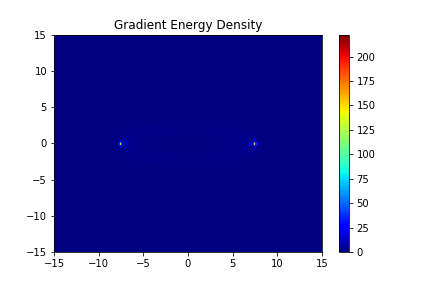
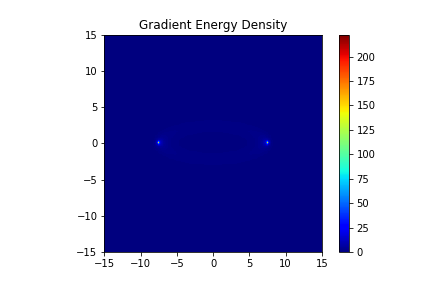
use imshow to plot gradient and total energy density

diff --git a/confinepy package/confinepy/source.py b/confinepy package/confinepy/source.py
@@ -1969,7 +1969,7 @@ class Solution_Viewer():
         return gradient_energy
     
     def plot_gradient_energy_density(self):
-        self._quick_plot(self.get_gradient_energy_density(),
+        self._quick_plot_imshow(self.get_gradient_energy_density(),
                          "Gradient Energy Density",
                          "Gradient_Energy_Density",
                          cmap='jet')
@@ -2007,7 +2007,7 @@ class Solution_Viewer():
     
     
     def plot_energy_density(self):
-        self._quick_plot(self.get_energy_density(),
+        self._quick_plot_imshow(self.get_energy_density(),
                          "Energy Density (E={})".format(
                              str(round(self.get_energy(),3))),
                          "Energy_Density",
@@ -2072,14 +2072,14 @@ class Solution_Viewer():
             ax1.plot(y_linspace,phi_cross[i],
                      label=r"$\phi_{}$".format(str(i+1)))
         ax1.legend(fontsize=15)
-        ax1.set_title("$\phi$ Cross Section at z=0",size=20)
+        ax1.set_title("$\phi$ Cross Section",size=20)
 
         ax2 = fig.add_subplot(222)
         for i in range(self.m):
             ax2.plot(y_linspace,sigma_cross[i],
                      label=r"$\sigma_{}$".format(str(i+1)))
         ax2.legend(fontsize=15)
-        ax2.set_title("$\sigma$ Cross Section at z=0",size=20)
+        ax2.set_title("$\sigma$ Cross Section",size=20)
         
         ax3 = fig.add_subplot(223)
         for i in range(self.m):
@@ -2143,6 +2143,17 @@ class Solution_Viewer():
         plt.title(plot_title)
         plt.savefig(self.path+file_title+".png")
         plt.show()
+        
+        
+    def _quick_plot_imshow(self,field,plot_title,file_title,cmap=None):
+        plt.figure()
+        plt.imshow(field, cmap=cmap, extent=[self.grid.z0,self.grid.zf,
+                                             self.grid.y0,self.grid.yf])
+        plt.colorbar()
+        plt.title(plot_title)
+        plt.savefig(self.path+file_title+".png")
+        plt.show()
+        
         
     # def _quick_plot_laplacian(self,field,ax,title,fig):
     #     im = ax.pcolormesh(self.grid.zv,self.grid.yv,field)
